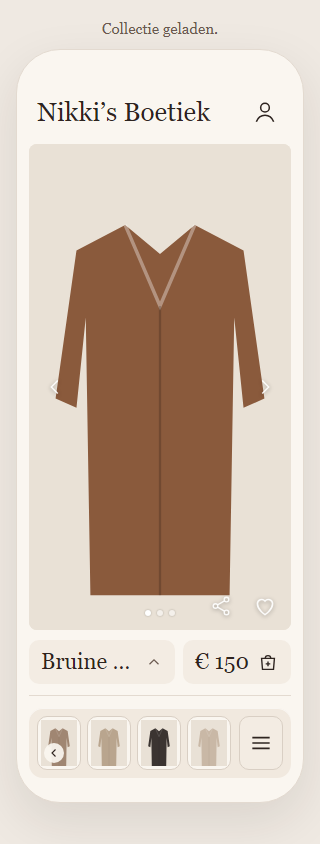
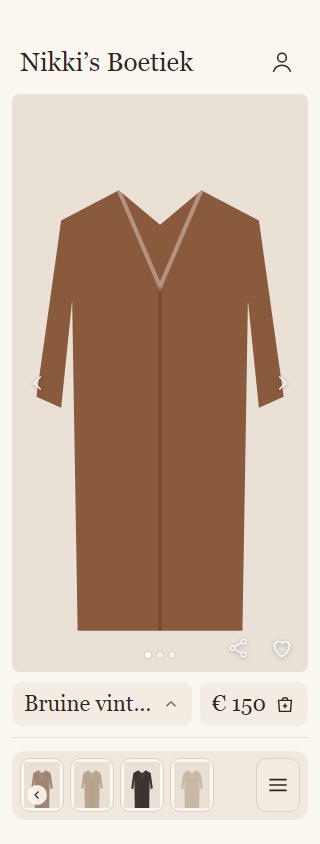
fix: verwerk winkelreview en toon optie B schermvullend

diff --git a/app/store-extension.js b/app/store-extension.js
@@ -32,7 +32,7 @@
       $('track').replaceChildren(); place(0);
       $('title').textContent='Geen beschikbare stukken'; $('price-text').textContent='';
       $('price').setAttribute('aria-pressed','false'); $('price').setAttribute('aria-label','Geen stuk beschikbaar');
-      $('bag-empty').hidden=false; $('bag-full').hidden=true;
+      $('bag-empty').toggleAttribute('hidden',false); $('bag-full').toggleAttribute('hidden',true);
       $('prev-th').querySelector('.face').replaceChildren(); $('prev-th').setAttribute('aria-label','Vorig stuk');
       $('nexts').innerHTML=Array.from({length:3},()=>'<button type="button" class="th" disabled aria-label="Geen volgend stuk"><span class="face"></span></button>').join('');
       return;
@@ -68,6 +68,9 @@
 
   function renderInfo() {
     var it = ITEMS[S.item];
+    var characteristics=[['Materiaal',it.material],['Bontsoort',['Ja','Alleen kraag of rand'].includes(it.furClass)?it.species:null]]
+      .filter(([,value])=>typeof value==='string' && value.trim())
+      .map(([label,value])=>'<div class="kv"><span>'+label+'</span><span>'+esc(value)+'</span></div>').join('');
     $('info').innerHTML = '<div class="head"><span></span><button type="button" class="ic" data-act="close" aria-label="Sluiten">' + CLOSE + '</button></div>' +
       '<div class="head" style="align-items:baseline;gap:16px"><span class="ptitle">' + esc(it.title) + '</span><span style="font-size:22px;white-space:nowrap">' + esc(it.price) + '</span></div>' +
       '<p style="margin:0;font-size:17px;line-height:1.55">' + esc(it.description || '') + '</p>' +
@@ -75,13 +78,14 @@
       [['Borstbreedte',0],['Ruglengte',3],['Schouderbreedte',1],['Mouwlengte',2]].map(function (s) {
         var value=it.measurements?.[s[1]];
         return '<div class="kv"><span>'+s[0]+'</span><span>'+(typeof value==='number' && Number.isFinite(value)?value.toLocaleString('nl-NL')+' cm':'')+'</span></div>';
-      }).join('') + '</div>';
+      }).join('') + '</div>' + (characteristics?'<div>'+characteristics+'</div>':'');
   }
   // Destination screens remain placeholders. Cart changes only store public garment IDs locally.
   var placeholder='', returnFocus=null;
   function renderCart() {
     $('cart').setAttribute('aria-label',placeholder);
-    $('cart').innerHTML='<div class="head" style="padding-bottom:10px"><button type="button" class="ic" data-act="close" aria-label="Terug naar de winkel" style="margin-left:-8px"><svg width="22" height="22" viewBox="0 0 24 24" fill="none" stroke="currentColor" stroke-width="1.5" aria-hidden="true"><path d="M15 5l-7 7 7 7"/></svg></button><span style="font-size:26px">'+esc(placeholder)+'</span><span style="width:44px"></span></div><p class="muted" style="margin:48px 0 0;text-align:center;font-size:18px">Binnenkort.</p>';
+    var message=placeholder==='Winkelmand'?'Proefboetiek · bekijken en uitproberen, nog niet afrekenen.':'Binnenkort.';
+    $('cart').innerHTML='<div class="head" style="padding-bottom:10px"><button type="button" class="ic" data-act="close" aria-label="Terug naar de winkel" style="margin-left:-8px"><svg width="22" height="22" viewBox="0 0 24 24" fill="none" stroke="currentColor" stroke-width="1.5" aria-hidden="true"><path d="M15 5l-7 7 7 7"/></svg></button><span style="font-size:26px">'+esc(placeholder)+'</span><span style="width:44px"></span></div><p class="muted" style="margin:48px 0 0;text-align:center;font-size:18px">'+message+'</p>';
   }
 
   var OPENER = { info: '[data-act="info"]', menu: '.shop' };
@@ -167,23 +171,29 @@
   }, { passive: false });
 
   window.NikkiStore = {
-    replace(records) {
+    replace(records, publishedIds) {
       var current=ITEMS[S.item], previous=ITEMS[S.prev]?.key, selected=current?.images[S.photo]?.path;
       // Explicit public projection: no auth, raw model output or private notes.
       ITEMS=records.filter(r=>r.images?.length).map(r=>({
         key:r.key, displayId:r.displayId, title:r.title, description:r.description, priceMinor:r.priceMinor,
+        material:r.material, species:r.species, furClass:r.furClass,
         price:new Intl.NumberFormat('nl-NL',{style:'currency',currency:'EUR',minimumFractionDigits:r.priceMinor%100?2:0}).format(r.priceMinor/100),
         measurements:r.measurements, images:r.images.map(i=>({src:i.src,path:i.path,role:i.role,main:i.main}))
       }));
       N=ITEMS.length;
       var index=ITEMS.findIndex(it=>it.key===current?.key), same=index>=0;
-      S.item=same?index:0; S.prev=Math.max(0,ITEMS.findIndex(it=>it.key===previous));
-      if(!current && N)S.prev=N-1;
+      S.item=same?index:0; S.prev=ITEMS.findIndex(it=>it.key===previous);
+      if(S.prev<0 || S.prev===S.item)S.prev=N-1===S.item?0:N-1;
       var photoIndex=same?ITEMS[S.item].images.findIndex(i=>i.path===selected):-1;
       S.photo=photoIndex>=0?photoIndex:N?primary(ITEMS[S.item]):0; S.zoom=same && photoIndex>=0 && S.zoom;
       g.start=null;g.axis=null;$('track').classList.remove('dragging');
       if(!same && S.open==='info')closeAll();
-      S.cart=Object.fromEntries(Object.keys(S.cart).filter(key=>ITEMS.some(it=>it.key===key)).map(key=>[key,true]));
+      // Only an authoritative publication list can remove items; photo availability cannot.
+      // put() or other partial updates do not supply that list.
+      if(Array.isArray(publishedIds)) {
+        var published=new Set(publishedIds);
+        S.cart=Object.fromEntries(Object.keys(S.cart).filter(key=>published.has(key)).map(key=>[key,true]));
+      }
       save('nikki-cart',S.cart);
       var infoScroll=$('info').scrollTop, infoFocused=$('info').contains(document.activeElement); render(false);
       if(S.open==='info'){renderInfo();$('info').scrollTop=infoScroll;if(infoFocused)$('info').querySelector('button').focus();}
@@ -192,7 +202,10 @@
       this.replace([...ITEMS.filter(it=>it.key!==record.key),record]);
       if(reveal)goItem(ITEMS.findIndex(it=>it.key===record.key));
     },
-    status(message) { $('catalog-status').textContent=message; }
+    status(message, state='success') {
+      $('catalog-status').textContent=message; $('catalog-status').title=message;
+      $('catalog-status').hidden=state!=='loading' && state!=='error';
+    }
   };
   // Do not clear the saved local basket until the catalog has actually loaded.
   render(false);

diff --git a/app/main.js b/app/main.js
@@ -7,7 +7,11 @@ const api=new Api(config);
 const $=id=>document.getElementById(id);
 document.body.dataset.screen='shop';
 const editVersions=new Map(); let rows=[],staff=false,busy=false,lastRefresh=0,skipped=0;
-const say=message=>{$('status').textContent=message;$('shop').contentWindow.NikkiStore?.status(message);};
+const shopStatus=(message,state='success')=>{
+  const photoProblem=state==='success' && skipped>0;
+  $('shop').contentWindow.NikkiStore?.status(photoProblem?'Sommige foto’s zijn tijdelijk niet bereikbaar.':message,photoProblem?'error':state);
+};
+const say=(message,state='success')=>{$('status').textContent=message;shopStatus(message,state);};
 function show(screen){
   if(screen==='intake'&&!staff)screen='manage';
   document.body.dataset.screen=screen;
@@ -31,13 +35,15 @@ async function hydrate(row){
 }
 const loaded=base=>base+(staff&&skipped?' '+skipped+(skipped===1?' stuk wordt':' stukken worden')+' niet getoond omdat de foto’s niet bereikbaar zijn.':'');
 async function refresh(){
+  shopStatus('Collectie laden…','loading');
   const next=await api.list();
   const published=next.filter(r=>r.status==='published');
   const urls=await api.imageUrls(published.flatMap(r=>r.data.images.map(i=>i.path)));
   const publicRecords=[];let missing=0;
   for(const row of published){const record=withPhotos(row,urls);if(record)publicRecords.push(record);else missing++;}
   rows=next;skipped=missing;lastRefresh=Date.now();
-  $('shop').contentWindow.NikkiStore.replace(publicRecords.reverse());
+  $('shop').contentWindow.NikkiStore.replace(publicRecords.reverse(),published.map(row=>row.id));
+  shopStatus('');
   $('items').replaceChildren();$('empty').hidden=!staff||rows.length>0;
   if(staff)for(const row of rows){
     const item=document.createElement('li');const label=document.createElement('span');
@@ -59,7 +65,7 @@ async function refresh(){
 }
 async function action(task){
   if(busy)return;busy=true;
-  try{await task();}catch(error){say(error.message);}finally{busy=false;controls();}
+  try{await task();}catch(error){say(error.message,'error');}finally{busy=false;controls();}
 }
 window.NikkiApp={
   openAccount:()=>show('manage'),
@@ -74,7 +80,7 @@ window.NikkiApp={
     const saved=await api.save(product,editVersions.get(product.key)||0);
     editVersions.set(product.key,saved.version);
     try{await refresh();show('shop');say(saved.status==='sold'?'Wijziging opgeslagen. Dit stuk blijft verkocht.':product.title+' is opgeslagen en staat in de boetiek.');}
-    catch{say('Het stuk is opgeslagen. De collectie kon niet worden vernieuwd; probeer Collectie vernieuwen.');}
+    catch{say('Het stuk is opgeslagen. De collectie kon niet worden vernieuwd; probeer Collectie vernieuwen.','error');}
   }
 };
 document.querySelectorAll('button[data-screen]').forEach(b=>b.addEventListener('click',()=>show(b.dataset.screen)));
@@ -93,7 +99,7 @@ const syncStyle=()=>{
 };
 syncStyle();
 if(!api.configured()){
-  say('De boetiek wordt ingericht. Inloggen en opslaan zijn nog niet aangesloten.');$('login').querySelector('button').disabled=true;$('reload').disabled=true;
+  say('De boetiek wordt ingericht. Inloggen en opslaan zijn nog niet aangesloten.','error');$('login').querySelector('button').disabled=true;$('reload').disabled=true;
 }else await action(async()=>{
   if(api.session){try{await api.request('/rest/v1/rpc/require_staff',{method:'POST',body:{}});staff=true;}catch{api.keep(null);}}
   controls();await refresh();say(loaded('Collectie geladen.'));

diff --git a/app/store-layout.css b/app/store-layout.css
@@ -1,7 +1,34 @@
 /* Geometry, palette and typography come from ontdekken-optie-b.html. */
+/* The phone frame belongs to the design presentation, not the actual shop. */
+:root {
+  --safe-top: env(safe-area-inset-top, 0px);
+  --safe-right: env(safe-area-inset-right, 0px);
+  --safe-bottom: env(safe-area-inset-bottom, 0px);
+  --safe-left: env(safe-area-inset-left, 0px);
+}
+body { padding: 0; gap: 0; min-height: 100svh; }
+.ph {
+  width: min(390px, 100%); height: min(844px, 100svh); flex-shrink: 0;
+  border: 0; border-radius: 0; box-shadow: none;
+  padding: calc(40px + var(--safe-top)) calc(12px + var(--safe-right)) calc(24px + var(--safe-bottom)) calc(12px + var(--safe-left));
+}
+@media (max-width: 480px) {
+  .ph { width: 100%; height: 100svh; }
+}
+.info { top: calc(92px + var(--safe-top)); left: calc(12px + var(--safe-left)); right: calc(12px + var(--safe-right)); }
+.menu { right: calc(16px + var(--safe-right)); }
+.cart { padding: calc(40px + var(--safe-top)) calc(20px + var(--safe-right)) calc(24px + var(--safe-bottom)) calc(20px + var(--safe-left)); }
+/* The existing top padding holds status text without moving any controls. */
+#catalog-status {
+  position: absolute; z-index: 6; top: calc(8px + var(--safe-top)); left: calc(50% + (var(--safe-left) - var(--safe-right)) / 2);
+  transform: translateX(-50%); width: calc(min(390px, 100%) - 24px - var(--safe-left) - var(--safe-right));
+  max-width: none; font-size: 16px; line-height: 20px;
+  white-space: nowrap; overflow: hidden; text-overflow: ellipsis;
+}
 button:disabled { cursor: default; }
 .info .ptitle, .info p { overflow-wrap: anywhere; }
 .info p { white-space: pre-wrap; }
+.info .kv > span:last-child { min-width: 0; overflow-wrap: anywhere; }
 [data-catalog-empty="true"] .photo > button,
 [data-catalog-empty="true"] .photo-acts,
 [data-catalog-empty="true"] .back-badge { visibility: hidden; }

diff --git a/app/index.html b/app/index.html
@@ -1,5 +1,5 @@
 <!doctype html>
-<html lang="nl"><head><meta charset="utf-8"><meta name="viewport" content="width=device-width,initial-scale=1"><title>Nikki’s Boetiek</title><link rel="stylesheet" href="style.css"></head>
+<html lang="nl"><head><meta charset="utf-8"><meta name="viewport" content="width=device-width,initial-scale=1,viewport-fit=cover"><title>Nikki’s Boetiek</title><link rel="stylesheet" href="style.css"></head>
 <body data-screen="shop"><header class="app-header"><div class="app-toolbar"><strong>Nikki’s Boetiek</strong><nav aria-label="Schermen"><button data-screen="shop" aria-pressed="true">Boetiek</button><button data-screen="manage" aria-pressed="false">Beheer</button><button data-screen="intake" id="new" hidden aria-pressed="false">Nieuw stuk</button></nav><div class="app-actions"><button id="reload">Collectie vernieuwen</button><button id="logout" hidden>Uitloggen</button></div></div></header>
 <div class="app-messages"><p id="status" role="status">Collectie laden…</p><p class="notice">Proefboetiek · bekijken en uitproberen, nog niet afrekenen.</p></div>
 <main><iframe id="shop" title="Boetiek"></iframe><iframe id="intake" title="Kledingstuk invoeren" hidden></iframe>

diff --git a/app/README.md b/app/README.md
@@ -12,16 +12,20 @@ Start met [de begeleide installatie](../docs/SUPABASE-START.md). Scope: gezamenl
 | `images.js` | Foto verkleinen en metadata uit de upload verwijderen |
 | `intake-extension.js` | Bestaande checklist hergebruiken, opgeslagen stuk openen |
 | `store-extension.js` | Optie B bedienen met de publieke NikkiStore-catalogus |
-| `store-layout.css` | Alleen lege catalogus en lange verkooptekst opvangen |
+| `store-layout.css` | Presentatiekader weglaten, veilige randen, vaste statusplek en lange verkooptekst |
 | `config.js` | Alleen publieke Supabase-projectgegevens |
 | `../supabase/migrations/` | Datacontract, gecontroleerde mutaties, daglimieten en expliciete toegangsrechten |
 | `../supabase/functions/analyse/handler.mjs` | Auth-controle, aanvraaggrenzen, Gemini-aanroep en resultaatfilter |
 
 `npm run build` herbouwt de zelfstandige demo voor het invoerscherm. Het winkelscherm gebruikt rechtstreeks de HTML en CSS van [Ontdekken, optie B](../concept/ontdekken-optie-b.html); alleen het voorbeeldscript wordt vervangen door `store-extension.js`. Geen voorbeeldstukken in de cloudbuild: gegevens komen via `Api.list()`, getekende fotolinks en `NikkiStore.replace()`. De build controleert zijn ankers en schrijft naar de genegeerde map `dist/cloud`. Geen bundler of runtime-JavaScript-CDN; Newsreader komt zoals in de referentie van Google Fonts, met Georgia als offline terugval.
 
-Naam opent de bestaande verkooptekst en platte maten; ontbrekende waarden blijven leeg. Prijs wisselt de lokale selectie in `localStorage.nikki-cart` (alleen permanente UUID's, geen foto's of productkopieën). Hartjes gebruiken de bestaande `gsf-liked` met vaste `display_id`. Vernieuwing behoudt stuk, fotopositie en open venster; verdwenen stukken worden uit het lokale mandje verwijderd. Deze selectie reserveert niets en schrijft niet naar Supabase.
+Naam opent de bestaande verkooptekst en platte maten; ontbrekende maten blijven leeg. Ingevuld `material` wordt als Materiaal getoond; ingevuld `species` alleen als `furClass` Ja of Alleen kraag of rand is. Deze waarden worden veilig als tekst weergegeven, zonder afleiding.
 
-Collectie, Mijn items en Winkelmand zijn uitsluitend plaatshouders in de referentiestijl. Het accounticoon opent het bestaande beheer. De oude stijlkiezer is geen onderdeel van optie B; de zelfstandige prototypes behouden hem.
+Prijs wisselt de lokale selectie in `localStorage.nikki-cart` (alleen permanente UUID's, geen foto's of productkopieën). Hartjes gebruiken de bestaande `gsf-liked` met vaste `display_id`. `NikkiStore.replace(records, publishedIds)` krijgt naast stukken met bereikbare foto's de ID's van **alle** gepubliceerde stukken. Alleen deze volledige lijst verwijdert niet meer gepubliceerde stukken uit de mand; ontbrekende fotolinks of een mislukte verversing doen dat niet. Een gedeeltelijke `put()` zonder publicatielijst verwijdert niets. Vernieuwing behoudt waar mogelijk stuk, fotopositie en open venster. Ontbreekt het vorige stuk, dan wijst de terugknop naar een ander stuk; bij één stuk is hij uitgeschakeld. Deze selectie reserveert niets en schrijft niet naar Supabase.
+
+De echte winkel vult tot en met 480 px de viewport, zonder het presentatiekader van de referentie. Daarboven blijft de breedte 390 px, gecentreerd. De binnenindeling en container-breekpunten blijven uit de referentie komen, gerekend met de werkelijke beschikbare breedte. Veilige randen gebruiken `env(safe-area-inset-*)`. Status staat alleen bij laden of een probleem in de bestaande bovenruimte, zonder verschuiving.
+
+Collectie, Mijn items en Winkelmand zijn uitsluitend plaatshouders in de referentiestijl. Winkelmand vermeldt dat afrekenen nog niet kan. Het accounticoon opent het bestaande beheer. De oude stijlkiezer is geen onderdeel van optie B; de zelfstandige prototypes behouden hem.
 
 ## Contract
 
@@ -49,6 +53,6 @@ Voor een aanwezige systeembrowser: `CHROMIUM_PATH=/usr/bin/chromium npm run test
 - PostgreSQL via PGlite: echte migratie, rollen, RLS, fotoverwijzingen, publieke/privé-scheiding, versies, dubbele aanvragen, verkocht-status en quota. Auth/Storage-tabellen zijn testdubbels van de relevante interfaces; de Supabase-diensten zelf worden hiermee niet getest.
 - Node: authenticatie vóór AI, afwijzen van ongeldige beelden, CORS, quotafouten en filteren van modelresultaten.
 - Chromium: echte invoer op mobiel formaat, login, analysevoorstellen, verkleinen/upload, opslagfout en herhaling, herladen, tweede browser, verkocht en bewerken. Netwerkdiensten zijn nagebootst.
-- `tests/storefront-layout.cjs`: geometrie en berekende stijlen rechtstreeks vergeleken met optie B op 390/320/280 px; foto → naam/prijs → onderrij, minimaal 44 px, geen tekst over de foto, verhoudingen/gaps en geen overlap. Ook lokale mand, ontbrekende maten, onbetrouwbare tekst, hoofd-/detailfoto, vegen, zoom, menuplaatshouders en lege catalogus. Schermafbeeldingen in `work/option-b-screenshots`; [vastgelegde vergelijking](../docs/screenshots/README.md).
+- `tests/storefront-layout.cjs`: binnenindeling en stijlen vergeleken met optie B bij gelijke beschikbare ruimte; het presentatiekader wordt uitsluitend in de test genormaliseerd. Viewports 280/283/284/320/331/332/390/480/481/1024 px bewaken ook de breekpunten en desktopcentrering. Controleert 44 px, volgorde, geen tekst over foto's, lokale mand bij foto-uitval/verkoop/terugtrekking, SVG-reset, vorige-stukfallback, materiaal/bontsoort, lege maten, veilige tekst, vaste laad-/foutstatus, gesimuleerde veilige randen en bestaande bediening. Schermafbeeldingen in `work/option-b-screenshots`; [vastgelegde vergelijking](../docs/screenshots/README.md).
 
 Er zijn geen productiediensten of secrets nodig voor deze tests. Live Supabase Auth/Storage en Gemini moeten na configuratie nog samen worden getest. Een verloren save-response kan bij herhaling een versieconflict opleveren: ververs dan de collectie en open het opgeslagen stuk opnieuw. Dat voorkomt een onbedoelde dubbele publicatie.

diff --git a/docs/screenshots/README.md b/docs/screenshots/README.md
@@ -1,6 +1,8 @@
 # Optie B — visuele vergelijking
 
-Vastgelegd op 9 november 2026 met Chromium. Links staat `concept/ontdekken-optie-b.html`, rechts de gebouwde cloudpilot uit `app/`. Viewports: 390 × 844 en 320 × 844 px. De vergelijkingen hieronder zijn uitsneden van hetzelfde telefoonkader; geen schaling of retouche.
+Bijgewerkt op 10 november 2026 met Chromium na de review van PR #19. Links staat de ongewijzigde `concept/ontdekken-optie-b.html`, rechts de gebouwde cloudpilot uit `app/`. Viewports: 390 × 844 en 320 × 844 px. Dit zijn volledige pagina's naast elkaar, zonder schaling of retouche.
+
+Met Martijns akkoord vervalt in de app het telefoonkader: geen rand, schaduw, ronde buitenhoeken, buitenmarge of succesregel. Tot en met 480 px vult het scherm de viewport, daarboven blijft het gecentreerd op 390 px. De foto krijgt de extra beschikbare ruimte; de bestaande binnenmaten, volgorde, kleuren, letters en bediening blijven leidend.
 
 De cloudpilot leest in deze test synthetische publieke records via de nagebootste bestaande catalogus-API en beveiligde foto-route. De tekeningen, namen en prijzen zijn testgegevens, geen echte inventaris. Geen privéfoto's, fototokens of klantgegevens vastgelegd. Externe fonts zijn in de test geblokkeerd, dus beide kanten gebruiken de bestaande Georgia-terugval; in de app blijft dezelfde Newsreader-link als in de referentie staan.
 
@@ -8,15 +10,19 @@ De cloudpilot leest in deze test synthetische publieke records via de nagebootst
 
 ![320 px: referentie naast cloudpilot](option-b-320.png)
 
-Volledige pagina's, inclusief de ontwerpnotitie boven de referentie en de laadstatus boven de app:
+Losse volledige pagina's; de ontwerpnotitie staat alleen boven de referentie. De app-status is na succesvol laden verborgen:
 
 | Viewport | Referentie | Cloudpilot |
 |---|---|---|
 | 390 px | [Volledige referentie](reference-390.png) | [Volledige app](app-390.png) |
 | 320 px | [Volledige referentie](reference-320.png) | [Volledige app](app-320.png) |
 
-Herhalen: `npm run build && npm run test:browser`. De losse PNG's komen in `work/option-b-screenshots/` (instelbaar met `NIKKI_SCREENSHOTS`). De test vergelijkt afmetingen, posities en berekende stijlen rechtstreeks met de referentie, controleert de volgorde foto / naam-prijs / onderrij, alle zichtbare knoppen van minstens 44 px en geen tekst over de foto. Op 390 px blijft de oorspronkelijke knoppenbreedte circa 48,8 px met 8 px tussenruimte; op 320 px zijn er drie volgende stukken, knoppen van 44 px en 6 px tussenruimte. Een extra controle op 280 px bewaakt de terugval naar twee volgende stukken.
+Herhalen: `npm run build && npm run test:browser`. De losse PNG's komen in `work/option-b-screenshots/` (instelbaar met `NIKKI_SCREENSHOTS`). Voor de geometrische vergelijking normaliseert de test uitsluitend het buitenvlak van de referentie naar de beschikbare app-breedte en -hoogte; de binnen-HTML/CSS blijven intact. Afmetingen, posities en berekende stijlen van die binnenindeling moeten gelijk zijn. Het schermvullende formaat wordt apart gecontroleerd.
 
-De cloudtest bewaakt daarnaast invoer, opslag, beveiligde fotolinks, behoud van het open venster en de gekozen foto bij vernieuwing, en verkocht-status. Deze checks gebruiken nagebootste diensten; live Supabase Auth/Storage en Gemini zijn voor deze wijziging niet opnieuw getest. Geen deployment of migratie uitgevoerd.
+De test bewaakt foto / naam-prijs / onderrij, minimaal 44 px, geen overlap of tekst over foto's, en dezelfde knopverhouding. De containerregels rekenen nu in de app met meer ruimte: op 390 px zijn de onderste knoppen 52 px breed met 8 px tussenruimte; op 320 px zijn ze 44 px breed met 6 px tussenruimte. Op 280 px blijven twee volgende stukken over. Viewports 283/284 en 331/332 controleren beide kanten van de onderrij-breekpunten; 480/481 en 1024 controleren schermvullend versus desktop.
 
-Aanvullende lokale controle buiten de cloudtests: `tests/ontdekken-optie-b.cjs` slaagt. `tests/prototypes.cjs` en `tests/connected-demo.cjs` stoppen in deze Windows/Chromium-omgeving bij de HTML-export met `download.path: canceled`; de betrokken prototypebestanden en tests zijn ongewijzigd. Die exportcontroles zijn dus niet groen bevestigd en zijn geen onderdeel van `npm run test:browser`.
+Regressies: mand blijft intact als gepubliceerde foto's tijdelijk ontbreken of de catalogusaanvraag faalt, en wordt wel opgeschoond bij verkoop/terugtrekking. Een lege collectie verbergt het SVG-vinkje. Een verdwenen vorig stuk valt terug op een ander stuk; bij één stuk wordt die knop uitgeschakeld. Materiaal en bontsoort zijn veilige tekst; ontbrekende velden worden weggelaten en bij `furClass=Nee` wordt geen bontsoort getoond. Winkelmand vermeldt dat afrekenen nog niet kan. Laden, fout en herstel verschuiven de indeling niet.
+
+De cloudtest bewaakt daarnaast invoer, opslag, beveiligde fotolinks, behoud van het open venster en de gekozen foto bij vernieuwing, en verkocht-status. Deze checks gebruiken nagebootste diensten; live Supabase Auth/Storage en Gemini zijn voor deze wijziging niet opnieuw getest. Veilige randen zijn met CSS-insets gesimuleerd; fysiek iOS/Safari en dynamische browserbalken zijn niet getest. Geen migratie of handmatige deployment uitgevoerd; de bestaande Cloudflare-koppeling bouwt automatisch een branchpreview.
+
+De zelfstandige `tests/ontdekken-optie-b.cjs` slaagt. Bij de eerdere controle op 9 november stopten `tests/prototypes.cjs` en `tests/connected-demo.cjs` lokaal bij de HTML-export met `download.path: canceled`. De betrokken prototypes/tests zijn ongewijzigd en niet opnieuw uitgevoerd in deze reviewronde; deze exportcontroles vallen buiten `npm run test:browser`.

diff --git a/docs/ARCHITECTURE.md b/docs/ARCHITECTURE.md
@@ -4,11 +4,11 @@ Status: onderstaande commerce-architectuur is een voorstel voor een latere verko
 
 ## Huidige cloudpilot: winkelweergave
 
-`app/` gebruikt de bestaande Supabase-catalogus, private fotobucket en getekende fotolinks. `main.js` geeft uitsluitend gepubliceerde stukken met bereikbare foto's door aan `NikkiStore.replace()`; de winkel projecteert alleen publieke titel, verkooptekst, prijs, platte maten en fotogegevens. Databasecontract, rechten, invoer en opslag zijn ongewijzigd.
+`app/` gebruikt de bestaande Supabase-catalogus, private fotobucket en getekende fotolinks. `main.js` geeft aan `NikkiStore.replace(records, publishedIds)` zowel gepubliceerde stukken met bereikbare foto's als de ID's van alle gepubliceerde stukken door. De mand wordt alleen opgeschoond op grond van deze volledige publicatielijst, niet op grond van fotobeschikbaarheid. De winkel projecteert publieke titel, verkooptekst, prijs, platte maten, fotogegevens en de bestaande velden `material`, `species` en `furClass`. Databasecontract, rechten, invoer en opslag zijn ongewijzigd.
 
 De build leest indeling en CSS rechtstreeks uit `concept/ontdekken-optie-b.html`. `app/store-extension.js` vervangt de voorbeeldgegevens en koppelt dezelfde bediening aan NikkiStore. Naam opent verkooptekst en maten uit de bestaande velden; ontbrekende maten blijven leeg. Prijs wisselt alleen een lokale selectie van stuk-UUID's. Er is geen reservering, voorraadmutatie of checkout. Collectie, Mijn items en Winkelmand blijven plaatshouders; account opent het bestaande beheer.
 
-De browsercontrole vergelijkt app en ontwerpbron op 390, 320 en 280 px. Op smalle schermen blijft de onderste rij minimaal 44 × 44 px, met 6 px tussenruimte en zo nodig twee volgende stukken. Zie [visuele vergelijking en testgrenzen](screenshots/README.md).
+Het telefoonkader is alleen ontwerppresentatie: de app vult tot en met 480 px de viewport, daarboven blijft hij 390 px breed. `app/store-layout.css` regelt dit en de veilige randen; de referentie blijft ongewijzigd. De binnenindeling gebruikt dezelfde maten en container-breekpunten, bij de werkelijk beschikbare breedte. De browsercontrole vergelijkt die binnenindeling bij gelijke ruimte en bewaakt apart het schermvullende buitenvlak. Op smalle schermen blijft de onderste rij minimaal 44 × 44 px, met 6 px tussenruimte en zo nodig twee volgende stukken. Zie [visuele vergelijking en testgrenzen](screenshots/README.md).
 
 ## Gegevensstroom
 

diff --git a/docs/STATUS.md b/docs/STATUS.md
@@ -10,6 +10,12 @@ Korte logboekregels, nieuwste bovenaan. Alleen feiten die zijn gecontroleerd; pl
 
 ## Logboek
 
+### 10 november 2026 — review van PR #19 verwerkt
+- Gepubliceerde ID's staan los van fotobeschikbaarheid: de lokale mand overleeft tijdelijke foto-uitval, maar verwijdert verkochte/teruggetrokken stukken. Het SVG-vinkje wordt bij een lege weergave verborgen; de vorige-stukknop wijst niet naar het huidige stuk.
+- Met Martijns akkoord verdwijnt alleen in de app het presentatiekader. Mobiel tot 480 px schermvullend, daarboven 390 px gecentreerd; binnenindeling en onderrij gebruiken dezelfde referentieregels bij de werkelijke breedte. Status alleen bij laden of een probleem, zonder verschuiving.
+- Materiaal en toepasselijke bontsoort uit bestaande velden veilig getoond; Winkelmand vermeldt dat afrekenen nog niet kan. Geen schema-, rechten-, voorraad- of winkelschrijfacties toegevoegd.
+- Build, 23 unit-/databasetests, cloudbrowserworkflow, uitgebreide vergelijkingstest en zelfstandige optie-B-test geslaagd. Schermafbeeldingen op 390/320 px bijgewerkt. Veilige randen gesimuleerd; fysiek iOS/Safari en live Supabase/Gemini niet opnieuw getest. Merge blijft bij Martijn.
+
 ### 9 november 2026 — cloudwinkel volgt optie B
 - De cloudbuild gebruikt de HTML/CSS van `concept/ontdekken-optie-b.html` rechtstreeks. De bestaande publieke Supabase-catalogus, NikkiStore en beveiligde fotolinks vullen de winkel; prijs wisselt alleen lokale stuk-ID's, naam toont verkooptekst en bestaande platte maten. Menu-bestemmingen zijn plaatshouders.
 - De afgesproken smalle-schermregel geldt in referentie en app: minimaal 44 × 44 px, dezelfde verhouding, 8 naar 6 px tussenruimte, zo nodig twee volgende stukken. Op 390 px blijft de onderrij gelijk.
